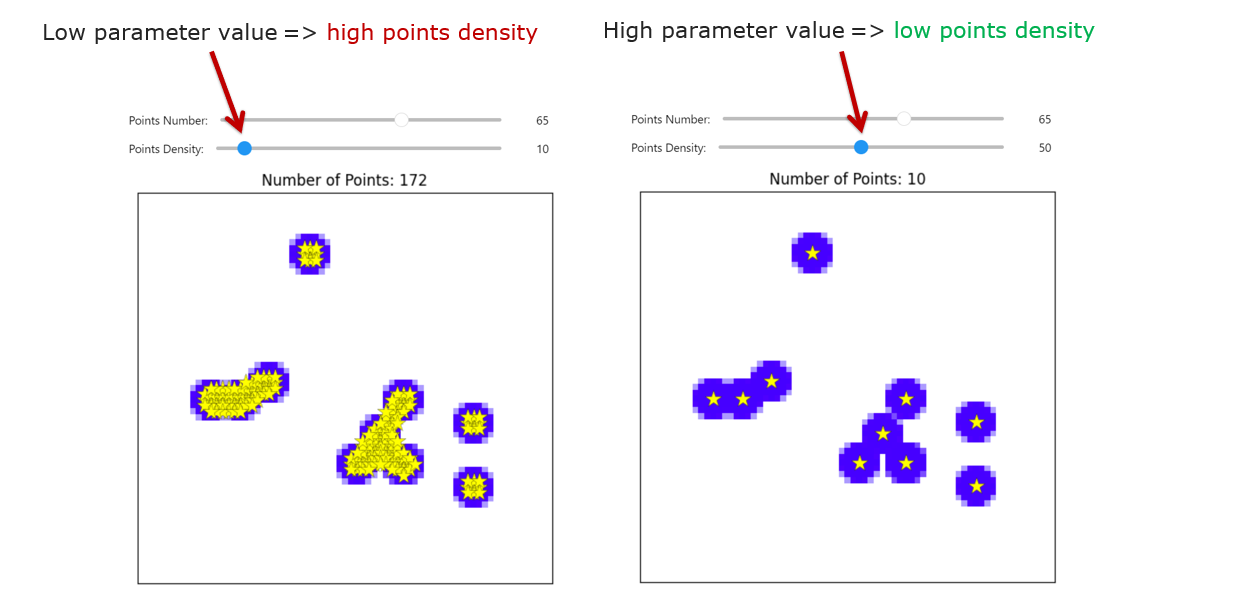
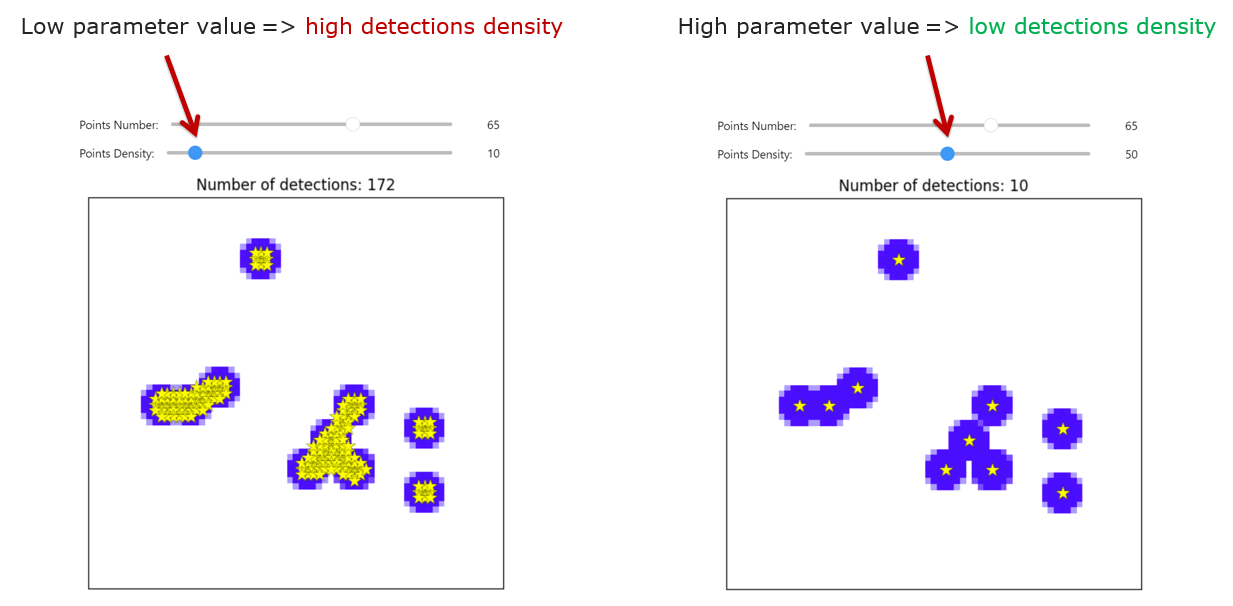
change title on widget; update docs images

diff --git a/src/scanplot/plotting.py b/src/scanplot/plotting.py
@@ -49,7 +49,7 @@ def draw_points_on_image(
     )
     plt.xticks([])
     plt.yticks([])
-    plt.title(f"Number of Points: {points_number}")
+    plt.title(f"Number of detections: {points_number}")
 
 
 def draw_bbox(x_min, x_max, y_min, y_max, bbox_center=None) -> None:
